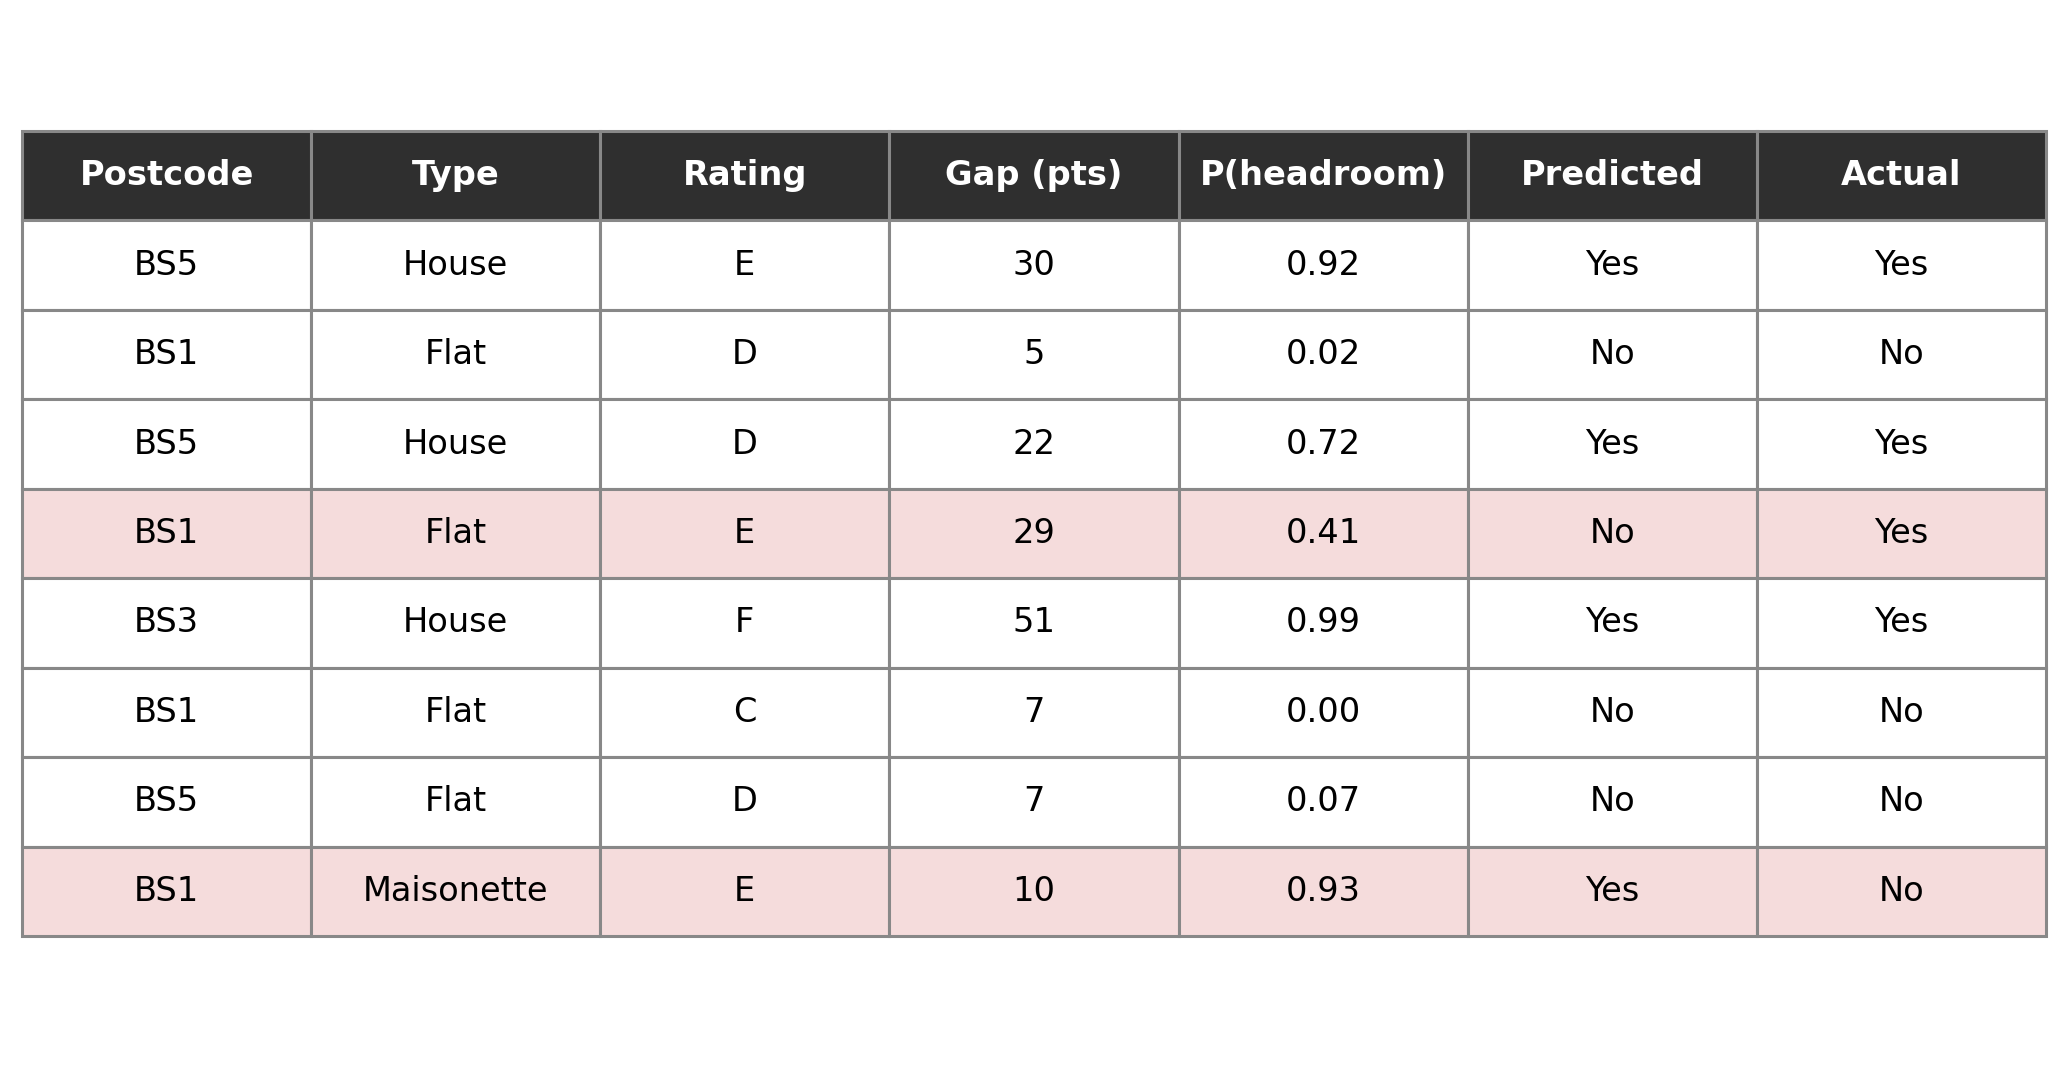
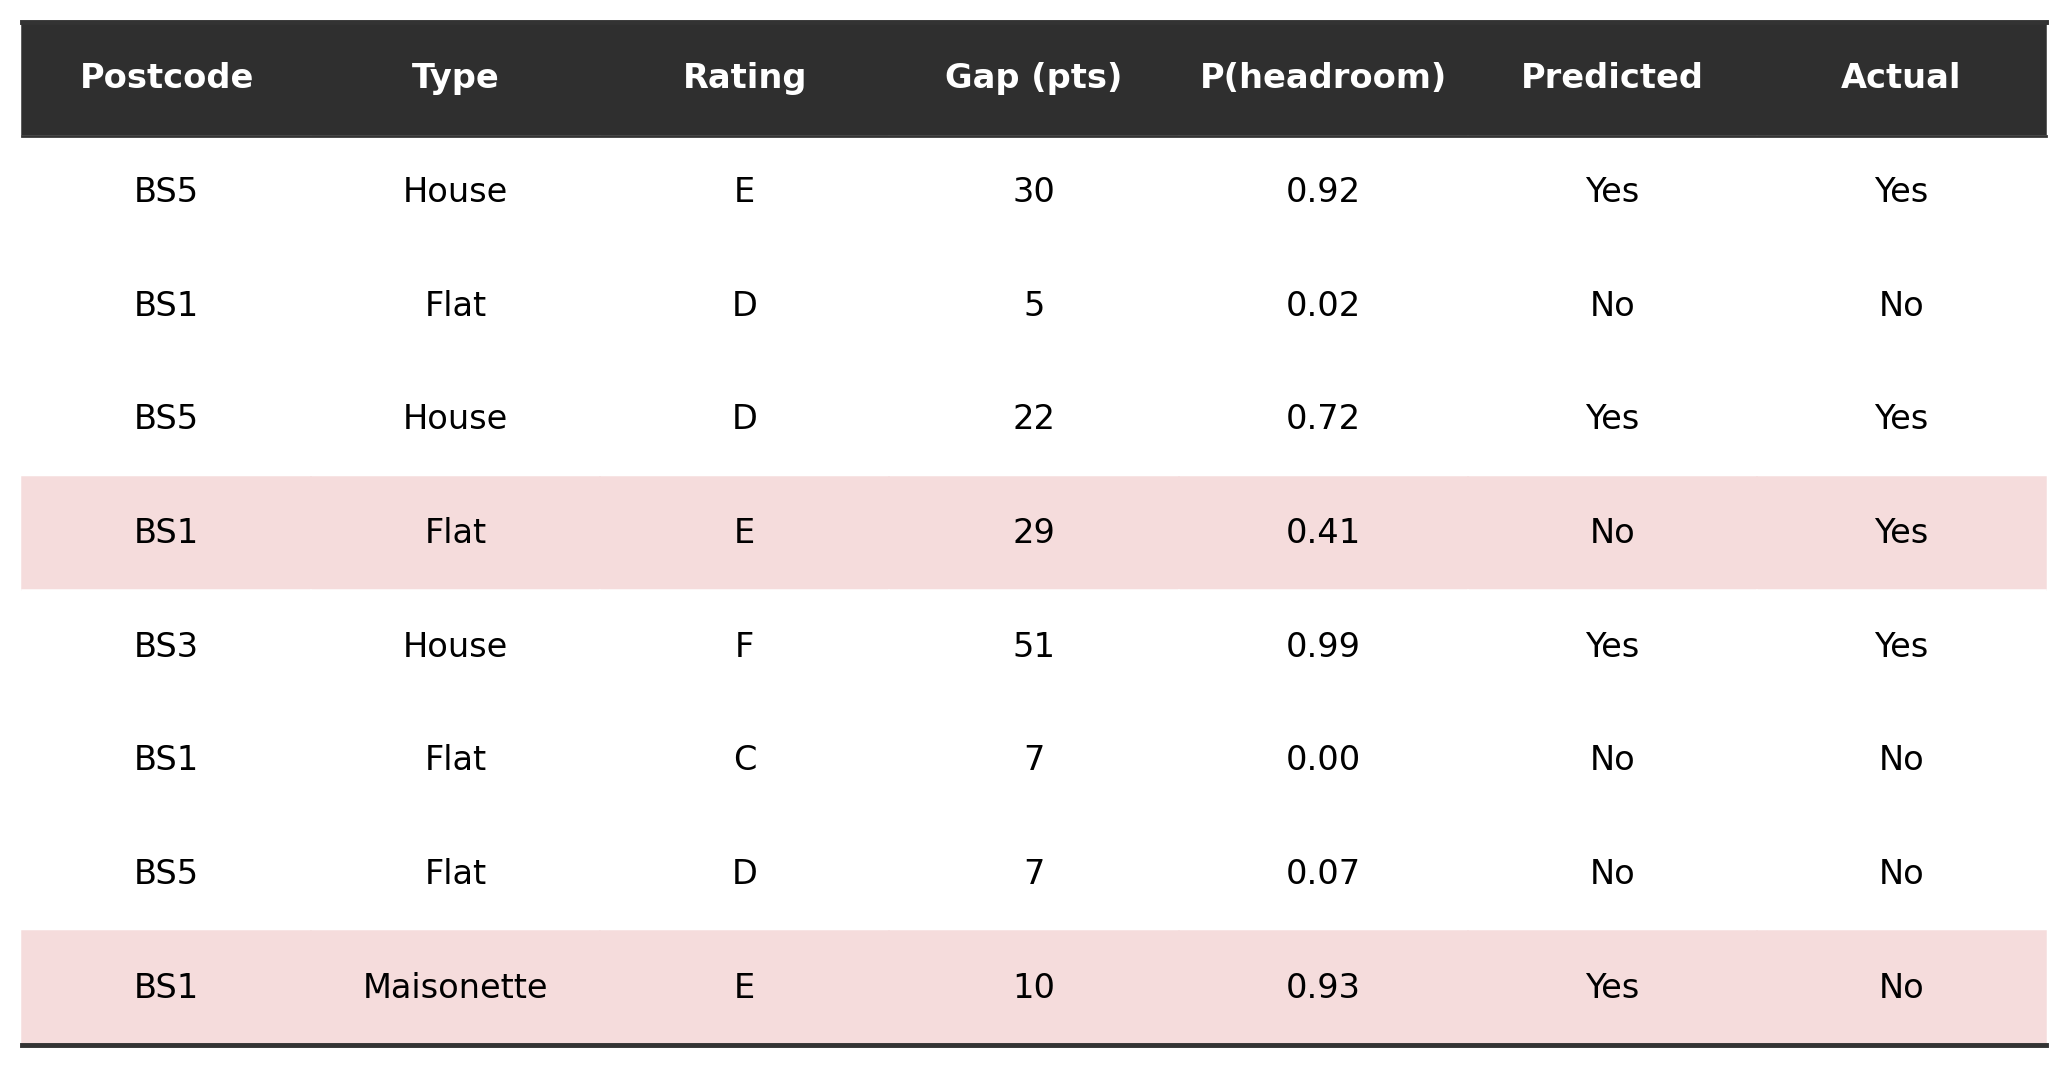
Restyle table images to a clean booktabs look, no vertical gridlines
Matched against a reference table style: thick top/bottom rules, a thin
rule under the header, no vertical gridlines, no lines between data
rows. The full grid this used before read as a spreadsheet export, not
a typeset table.

Cell.visible_edges looked like the right tool for this but has a real
bug: setting anything other than the full default edge set makes the
whole cell invisible, facecolor and text included, not just the edges.
Confirmed by isolating it in a minimal reproduction before working
around it. Fix draws the rules as plain lines across the table instead,
independent of the cell grid, with cells kept at their default edges
but coloured to match their own fill so they don't show.

diff --git a/src/make_table_images.py b/src/make_table_images.py
@@ -28,11 +28,43 @@ FIGURES_DIR = "report/figures"
 HEADER_BG = "#2F2F2F"
 WINNER_BG = "#E8F0E3"
 ERROR_BG = "#F5DCDC"
+RULE_COLOR = "#333333"
 
 
 def _read_csv(path):
     with open(path, newline="") as f:
         return list(csv.DictReader(f))
+
+
+def _apply_booktabs_style(ax, tbl, n_rows):
+    """Journal-style rules only (thick top, thin under the header, thick
+    bottom), no vertical gridlines and no lines between data rows. Matches
+    the reference table style shared for comparison, and the standard
+    "booktabs" convention most published papers actually use; the full grid
+    this project used before read as a spreadsheet export, not a typeset
+    table.
+
+    Cell.visible_edges looks like the obvious tool for this (set 'T' on the
+    header row, 'B' on the last row, nothing elsewhere), and it does draw
+    the right lines, but it silently makes the WHOLE cell invisible,
+    facecolor and text included, the moment a cell's edges aren't the full
+    default set. Confirmed by isolating it: a cell with all four edges
+    renders correctly; the same cell with only one edge set renders
+    nothing at all, not even its dark header fill. Rather than fight that,
+    every cell keeps its default (closed) edges but coloured to match its
+    own fill so they're invisible, and the three real rules are drawn as
+    plain Line2D segments across the whole table instead, independent of
+    the cell grid entirely. Requires the table's bbox to be the axes'
+    full [0, 0, 1, 1] so each row's y-position is exactly 1/n_rows,
+    known in advance rather than queried from cell geometry that isn't
+    finalised until a draw event happens."""
+    for (row, col), cell in tbl.get_celld().items():
+        cell.set_edgecolor(cell.get_facecolor())
+        cell.set_linewidth(0.5)
+    row_h = 1.0 / n_rows
+    for y, lw in [(1.0, 1.6), (1.0 - row_h, 0.9), (0.0, 1.6)]:
+        ax.plot([0, 1], [y, y], color=RULE_COLOR, linewidth=lw,
+                transform=ax.transAxes, clip_on=False, zorder=10)
 
 
 def render_comparison_table():
@@ -45,21 +77,24 @@ def render_comparison_table():
     best_model = max(rows, key=lambda r: float(r["Test ROC-AUC"]))["Model"]
     cell_text = [[r[k] for k in src_keys] for r in rows]
 
-    fig, ax = plt.subplots(figsize=(9.5, 0.55 * (len(rows) + 1)))
+    n_rows = len(rows) + 1
+    fig, ax = plt.subplots(figsize=(9.5, 0.55 * n_rows))
     ax.axis("off")
-    tbl = ax.table(cellText=cell_text, colLabels=headers, cellLoc="center", loc="center")
+    ax.set_xlim(0, 1)
+    ax.set_ylim(0, 1)
+    tbl = ax.table(cellText=cell_text, colLabels=headers, cellLoc="center",
+                   loc="center", bbox=[0, 0, 1, 1])
     tbl.auto_set_font_size(False)
     tbl.set_fontsize(11)
-    tbl.scale(1, 2.0)
 
     for (row, col), cell in tbl.get_celld().items():
-        cell.set_edgecolor("#888888")
         if row == 0:
             cell.set_facecolor(HEADER_BG)
             cell.set_text_props(color="white", fontweight="bold")
         elif rows[row - 1]["Model"] == best_model:
             cell.set_facecolor(WINNER_BG)
             cell.set_text_props(fontweight="bold")
+    _apply_booktabs_style(ax, tbl, n_rows=n_rows)
 
     plt.tight_layout()
     plt.savefig(f"{FIGURES_DIR}/table1_model_comparison.png", dpi=220, bbox_inches="tight")
@@ -84,20 +119,23 @@ def render_bristol_table():
             pred, actual,
         ])
 
-    fig, ax = plt.subplots(figsize=(9.5, 0.55 * (len(rows) + 1)))
+    n_rows = len(rows) + 1
+    fig, ax = plt.subplots(figsize=(9.5, 0.55 * n_rows))
     ax.axis("off")
-    tbl = ax.table(cellText=cell_text, colLabels=headers, cellLoc="center", loc="center")
+    ax.set_xlim(0, 1)
+    ax.set_ylim(0, 1)
+    tbl = ax.table(cellText=cell_text, colLabels=headers, cellLoc="center",
+                   loc="center", bbox=[0, 0, 1, 1])
     tbl.auto_set_font_size(False)
     tbl.set_fontsize(11)
-    tbl.scale(1, 2.0)
 
     for (row, col), cell in tbl.get_celld().items():
-        cell.set_edgecolor("#888888")
         if row == 0:
             cell.set_facecolor(HEADER_BG)
             cell.set_text_props(color="white", fontweight="bold")
         elif mismatches[row - 1]:
             cell.set_facecolor(ERROR_BG)
+    _apply_booktabs_style(ax, tbl, n_rows=n_rows)
 
     plt.tight_layout()
     plt.savefig(f"{FIGURES_DIR}/table2_bristol.png", dpi=220, bbox_inches="tight")
